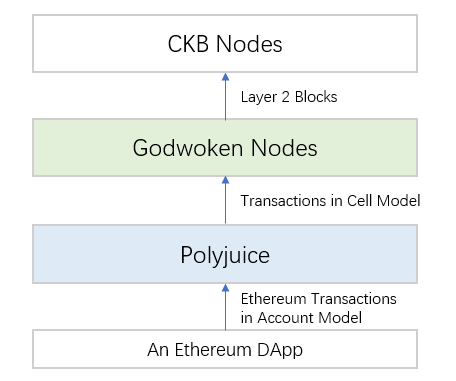
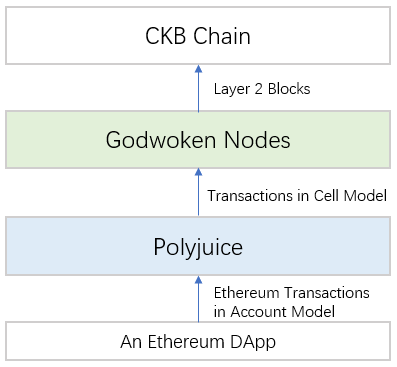
fix minor issues

Changed region(s): [[0.0, 0.0, 0.9975, 0.9891], [0.2418, 0.3597, 0.7254, 0.4196]]

diff --git a/docs/introduction/overview.md b/docs/introduction/overview.md
@@ -9,20 +9,20 @@ import useBaseUrl from "@docusaurus/useBaseUrl";
 
 Polyjuice is an EVM compatible layer that exposes an account model on top of the cell model of CKB. It supports Solidity based smart contracts to run on Nervos CKB. <!--Polyjuice uses [evmone](https://github.com/ethereum/evmone) as the EVM implementation in both generator and validator. It accepts Ethereum transactions and executes the transactions in EVM. For more information about Polyjuice transactions, see [Life of a Polyjuice Transaction](https://github.com/nervosnetwork/godwoken/blob/master/docs/life_of_a_polyjuice_transaction.md).-->
 
-The active development repository of Polyjuice is [Polyjuice for Godwoken](https://github.com/nervosnetwork/godwoken-polyjuice) that is the Ethereum compatible backend for [Godwoken](https://github.com/nervosnetwork/godwoken). Godwoken is a layer 2 rollup framework for Nervos CKB. It provides scaling capabilities with rollups that perform transaction execution outside a CKB chain. Simply put, Polyjuice provides a way to inject custom logic into the rollup solution of Godwoken. Godwoken solves the shared state problem of Polyjuice.
+The active development repository of Polyjuice is [Polyjuice for Godwoken](https://github.com/nervosnetwork/godwoken-polyjuice) that is the Ethereum compatible backend for [Godwoken](https://github.com/nervosnetwork/godwoken). Polyjuice supports to deploy Ethereum DApps to CKB when it is deployed with Godwoken.
 
-Polyjuice supports to deploy Ethereum DApps to CKB when Polyjuice is deployed with Godwoken.
+Godwoken is a layer 2 rollup framework for Nervos CKB. It provides scaling capabilities with rollups that perform transaction execution outside a CKB chain. Simply put, Polyjuice provides a way to inject custom logic into the rollup solution of Godwoken. Godwoken solves the shared state problem of Polyjuice.
 
 Figure 1 shows the main relationship among CKB nodes, Godwoken nodes, Polyjuice and Ethereum DApps. 
 
-<img src={useBaseUrl("img/arch.png")}  width="50%"/>
+<img src={useBaseUrl("img/arch.png")}  width="40%"/>
 
 Figure 1. Architecture for Polyjuice Deployed with Godwoken
 
 Polyjuice and Godwoken works as follows:
 
 1. Polyjuice accepts Ethereum transactions and executes the transactions in EVM, then sends the transactions to Godwoken nodes.
-2. Godwoken nodes collect specially designed layer 2 transactions and pack the special transactions into CKB transactions. Finally, submit the CKB transactions to layer 1 (CKB nodes) for acceptance.
+2. Godwoken nodes collect specially designed layer 2 transactions and pack the special transactions into CKB transactions. Finally, submit the CKB transactions to layer 1 for acceptance.
 
 ## Decentralization Roadmap
 
@@ -43,13 +43,13 @@ Polyjuice and Godwoken works as follows:
 
 ### Polyjuice Networks
 
-The following Polyjuice networks can be used for migrating Ethereum DApps to Polyjuice:
+The following Polyjuice networks can be used for deploying Ethereum DApps to Polyjuice:
 
 | Network Name                             | Description                                                  |
 | ---------------------------------------- | ------------------------------------------------------------ |
 | <p>Polyjuice&nbsp;Testnet</p>            | RPC URL: https://godwoken-testnet-web3-rpc.ckbapp.dev/<br/>Chain ID: 71393<br/> |
 | <p>Polyjuice&nbsp;Mainnet</p>            | Todo                                                         |
-| <p>Local&nbsp;Polyjuice&nbsp;Network</p> | A local Polyjuice network can be deployed by one of the following deployment methods to fulfill different deployment requirements:<br/><ul><li><p>Deploy a Polyjuice network by using Godwoken-kicker.</p><p>Godwoken-kicker is a one line command to start a Godwoken chain with Polyjuice on **Devnet**. This deployment method helps developers deploy Ethereum contracts and migrate Ethereum DApps to CKB Devnet quickly in testing and development environments.</p><p>RPC URL: http://localhost:8024<br/>Chain ID: 1024777<br/></p></li><li>Deploy a Polyjuice network manually.</li></ul> |
+| <p>Local&nbsp;Polyjuice&nbsp;Network</p> | A local Polyjuice network can be deployed by one of the following deployment methods to fulfill different deployment requirements:<br/><ul><li><p>Deploy a Polyjuice network by using Godwoken-kicker.</p><p>Godwoken-kicker is a one line command to start a Godwoken chain with Polyjuice on **Devnet**. This deployment method helps developers deploy Ethereum contracts and migrate Ethereum DApps to CKB Devnet quickly in testing and development environments.</p><p>RPC URL: http://localhost:8024<br/>Chain ID: 1024777<br/></p></li><li><p>Deploy a Polyjuice network manually.</p><p>This deployment method is useful in situations such as deploying a Godwoken chain with Polyjuice on <b>Testnet</b> or <b>Mainnet</b>.</p></li></ul> |
 
 ## Deployment
 
@@ -288,8 +288,6 @@ Great! Checkout http://localhost:6100 to deploy contract!
 For more information about the Godwoken-kicker commands, see [godwoken-kicker](https://github.com/RetricSu/godwoken-kicker).
 
 ### Deploy a Polyjuice Network Manually
-
-This deployment method is useful in situations such as deploying a Godwoken chain with Polyjuice on **Testnet** or **Mainnet**.
 
 #### Environment
 
